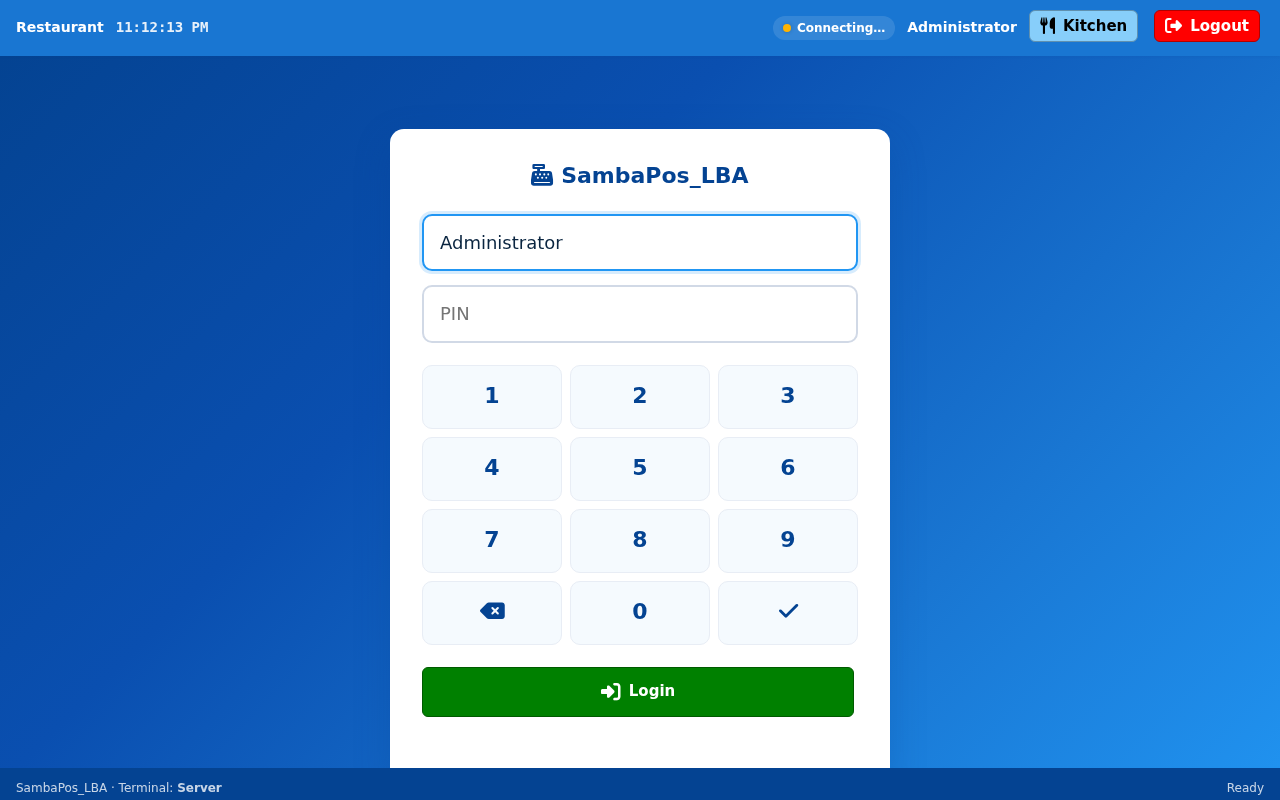
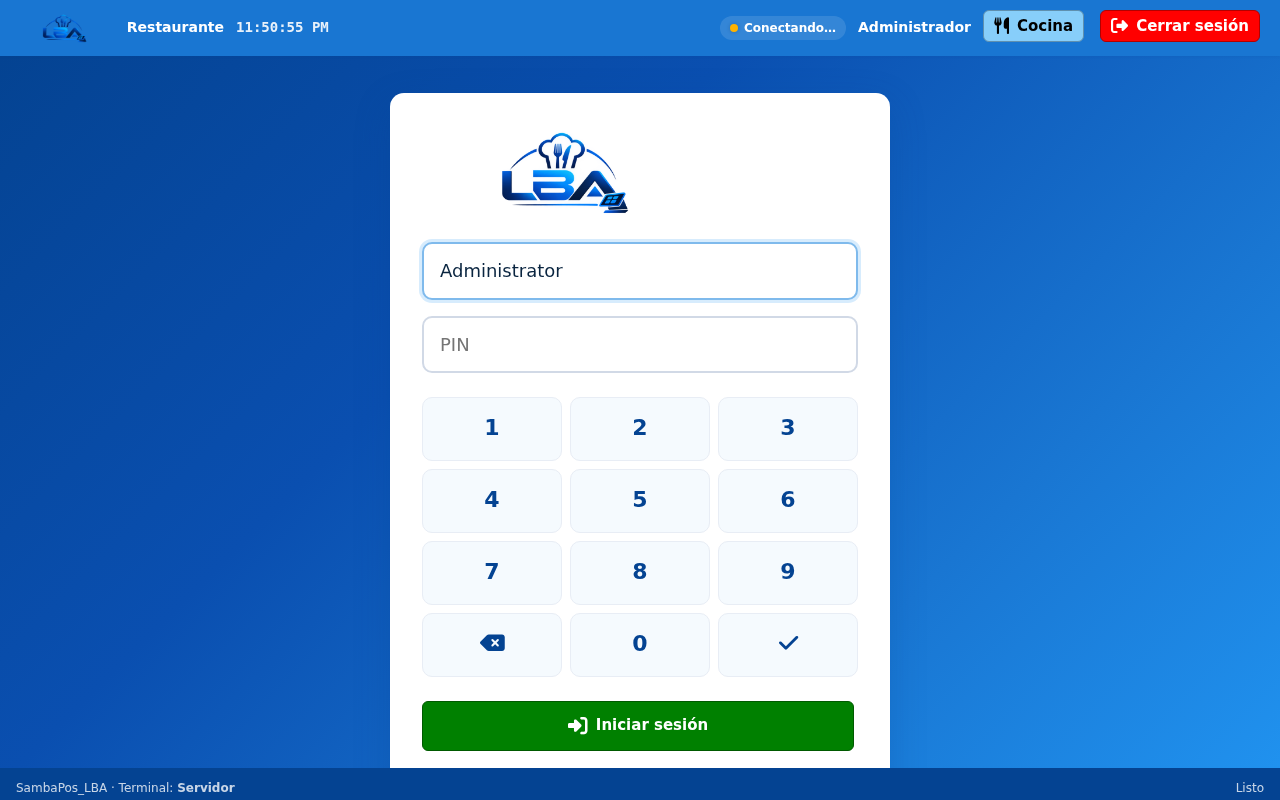
fix(screenshots): update test assertions for Spanish UI + regenerate
Updated screenshots.spec.js test 06 to match Spanish button labels:
- 'Pay' → 'Cobrar'
- 'Note' → 'Nota'

All 17 screenshots regenerated with Spanish UI + official logo.
All 17 tests PASS (1.2m execution time).

diff --git a/backend/tests/e2e/screenshots.spec.js b/backend/tests/e2e/screenshots.spec.js
@@ -270,8 +270,8 @@ test.describe('Screenshots documentales — SambaPos_LBA', () => {
     await page.waitForSelector('#pos-products-grid flex-button', { timeout: 10000 });
     // Sanity-check the command bar is fully rendered before capturing.
     const labels = await page.locator('#pos-cmdbar flex-button').allTextContents();
-    expect(labels.some(t => t.includes('Pay'))).toBeTruthy();
-    expect(labels.some(t => t.includes('Note'))).toBeTruthy();
+    expect(labels.some(t => t.includes('Cobrar'))).toBeTruthy();
+    expect(labels.some(t => t.includes('Nota'))).toBeTruthy();
     await page.waitForTimeout(300);
     await page.screenshot({ path: path.join(SHOTS, '06-command-bar.png'), fullPage: false });
   });
